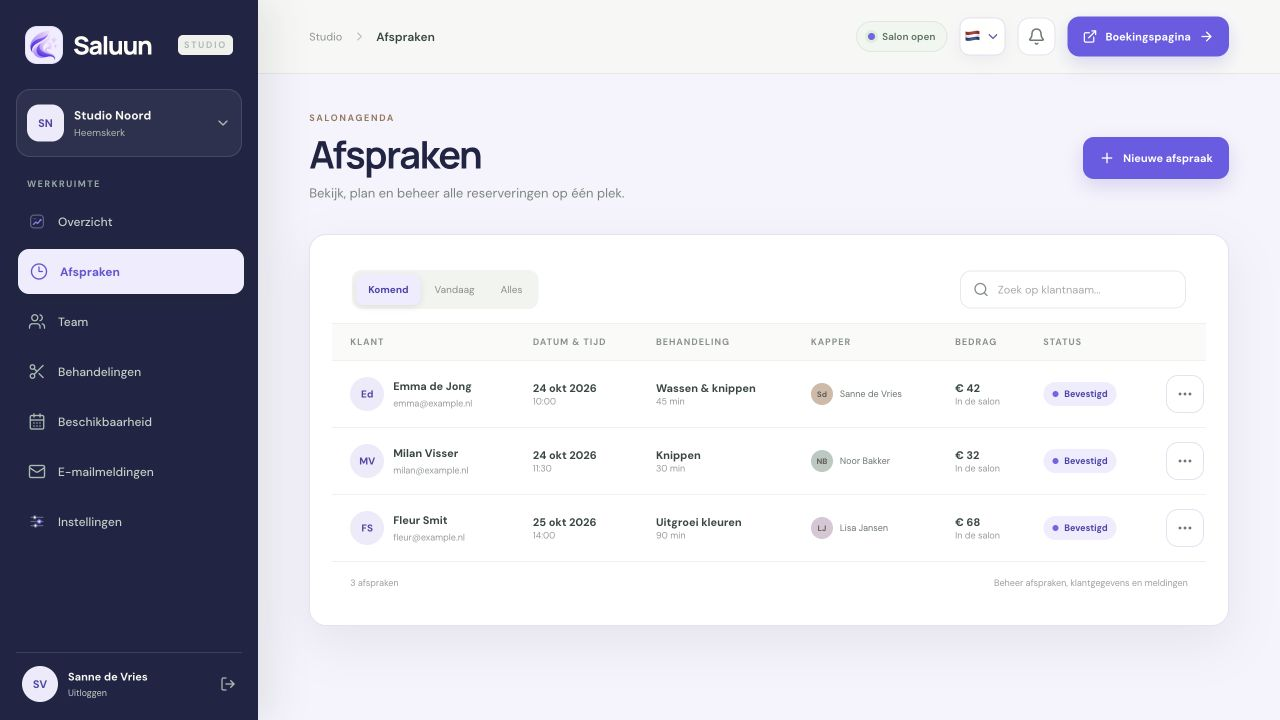
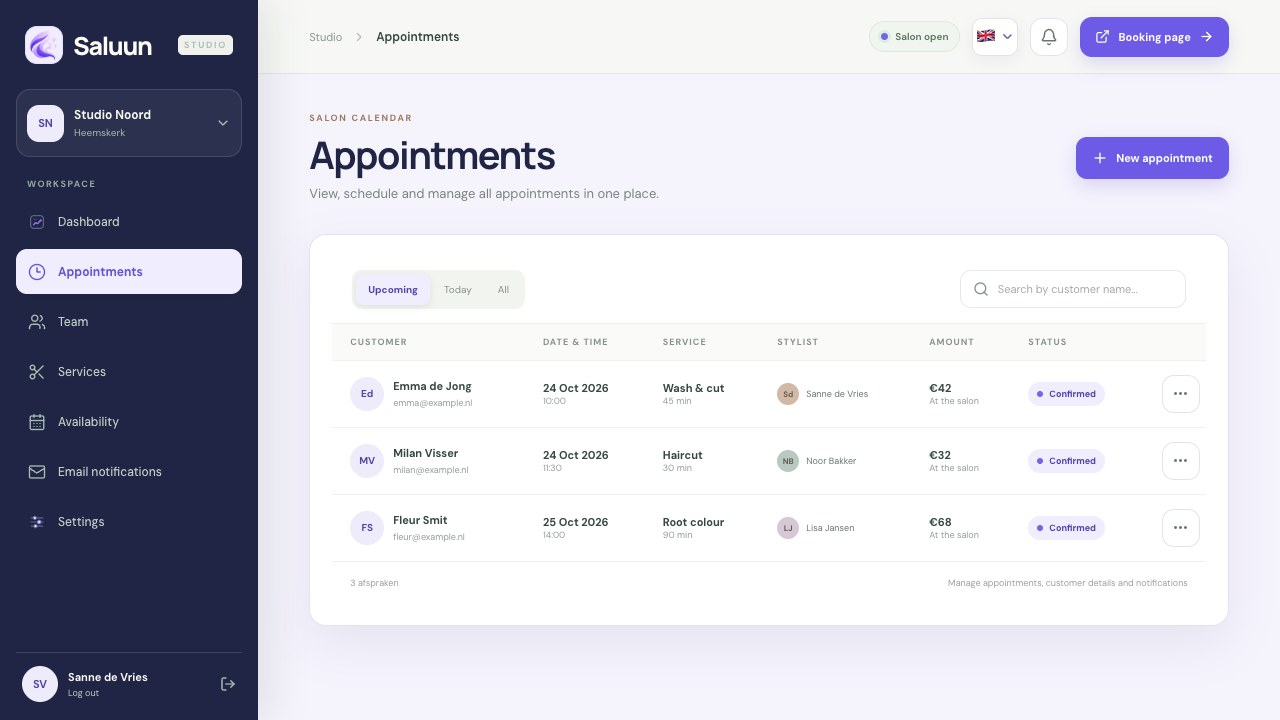
Refresh Saluun pilot showcase

diff --git a/assets/site.css b/assets/site.css
@@ -27,6 +27,7 @@ h1, h2, h3, p { margin-top: 0; }
 .nav, .footer-nav { display: flex; align-items: center; gap: clamp(20px, 3vw, 42px); }
 .nav a, .footer-nav a { color: var(--soft-ink); font-size: 14px; text-decoration: none; transition: color 180ms ease; }
 .nav a:hover, .footer-nav a:hover { color: var(--accent); }
+.nav a[aria-current="page"], .nav a[aria-current="location"] { color: var(--accent); font-weight: 650; }
 :focus-visible { outline: 3px solid var(--accent); outline-offset: 5px; }
 
 .hero { display: grid; min-height: min(780px, calc(100svh - 92px)); grid-template-columns: 1.1fr .9fr; align-items: center; gap: 7vw; padding-block: 72px 100px; }
@@ -264,19 +265,20 @@ h1, h2, h3, p { margin-top: 0; }
 .project-link--saluun:hover .saluun-preview--primary { transform: translateY(-5px); }
 .project-link--saluun:hover .saluun-preview--secondary { transform: translateY(18px); }
 .saluun-page { --accent: #6751c9; --terracotta: #c92c3a; --line: rgba(62, 53, 112, .13); background: radial-gradient(ellipse at 86% 8%, rgba(194, 184, 255, .25), transparent 34rem), var(--ground); }
-.saluun-page .product-hero { min-height: 490px; border-color: rgba(104, 81, 201, .14); background: linear-gradient(125deg, #fffefd 8%, #f1efff 100%); box-shadow: 0 18px 55px rgba(57, 48, 119, .075); }
+.saluun-page .product-hero { min-height: 430px; border-color: rgba(104, 81, 201, .14); background: linear-gradient(125deg, #fffefd 8%, #f1efff 100%); box-shadow: 0 18px 55px rgba(57, 48, 119, .075); }
 .saluun-page .product-eyebrow { color: #6652c4; }
 .saluun-page .product-button { background: #6751c9; color: #fff; }
 .saluun-page .product-button:hover { background: #4f3bad; }
 .saluun-page .product-trustline { color: #6556a3; }
 .saluun-status { display: inline-flex; align-items: center; gap: 9px; width: fit-content; margin-bottom: 20px; padding: 8px 12px; border: 1px solid rgba(104, 81, 201, .17); border-radius: 99px; background: rgba(255, 255, 255, .64); color: #5146a0; font-size: 12px; font-weight: 650; }
 .saluun-status::before { width: 7px; height: 7px; border-radius: 50%; background: #7861dd; content: ""; }
-.saluun-page .product-hero .product-title { max-width: 600px; font-size: clamp(3.2rem, 5.2vw, 4.4rem); }
+.saluun-page .product-hero .product-title { max-width: 600px; font-size: clamp(2.9rem, 4.5vw, 3.8rem); }
 .saluun-hero-visual { display: grid; min-height: 260px; grid-template-columns: 1.2fr .8fr; align-items: center; gap: 0; }
 .saluun-page .product-final-cta { border-color: rgba(104, 81, 201, .14); background: linear-gradient(120deg, #f2efff, #f9f7ff); }
-.saluun-showcase { padding-block: 88px 24px; }
+.saluun-showcase { padding-block: 68px 20px; }
 .saluun-showcase .section-intro { margin-bottom: 30px; }
-.saluun-showcase .section-intro h2 { font-size: clamp(2.6rem, 4.8vw, 4.5rem); }
+.saluun-showcase .section-intro h2 { font-size: clamp(2.25rem, 4vw, 3.5rem); }
+.saluun-screenshot-note { display: block; margin-top: 9px; color: #817c90; font-size: 12px; }
 .saluun-gallery { display: grid; grid-template-columns: repeat(2, minmax(0, 1fr)); align-items: start; gap: 18px; }
 .saluun-shot { overflow: hidden; margin: 0; border: 1px solid rgba(66, 52, 135, .13); border-radius: 18px; background: #fff; box-shadow: 0 14px 38px rgba(46, 40, 86, .075); }
 .saluun-shot:first-child { grid-column: 1 / -1; }
@@ -285,10 +287,11 @@ h1, h2, h3, p { margin-top: 0; }
 .saluun-shot figcaption span { color: #7563cf; font-size: 11px; font-weight: 750; letter-spacing: .08em; }
 .saluun-shot figcaption strong { font-size: 14px; font-weight: 620; }
 .saluun-shot figcaption small { margin-left: auto; color: var(--soft-ink); font-size: 11px; }
-.saluun-page .product-tier-section--saluun { background: linear-gradient(135deg, #f1efff, #f8f6ff); }
+.saluun-page .product-tier-section--saluun { margin-top: 62px; padding: clamp(24px, 4vw, 48px); background: linear-gradient(135deg, #f1efff, #f8f6ff); }
+.saluun-page .product-tier-heading h2 { font-size: clamp(2.2rem, 4vw, 3.5rem); }
 .saluun-page .product-tier--saluun { border-color: rgba(104, 81, 201, .18); box-shadow: 0 10px 32px rgba(57, 48, 119, .07); }
 .saluun-page .product-benefits { grid-template-columns: repeat(4, minmax(0, 1fr)); gap: 12px; }
-.saluun-price { margin: 0 0 5px; color: #c92c3a; font-size: clamp(2.4rem, 4.5vw, 4rem); font-weight: 650; letter-spacing: -.06em; line-height: 1; }
+.saluun-price { margin: 0 0 5px; color: #c92c3a; font-size: clamp(2.2rem, 3.6vw, 3.2rem); font-weight: 650; letter-spacing: -.06em; line-height: 1; }
 .saluun-price small { display: block; margin-top: 8px; color: #c92c3a; font-size: .34em; font-weight: 600; letter-spacing: -.02em; }
 .saluun-price-note { margin: 0 0 22px; color: #a32834; font-size: 12px; font-weight: 650; }
 .saluun-page .product-final-cta .product-button { flex: 0 0 auto; }
@@ -333,10 +336,10 @@ h1, h2, h3, p { margin-top: 0; }
 
 @media (max-width: 620px) {
   .wrap { width: calc(100% - 36px); }
-  .header-inner { min-height: 78px; }
+  .header-inner { min-height: 78px; flex-wrap: wrap; justify-content: center; gap: 7px; padding-block: 10px; }
   .brand { gap: 8px; font-size: 13px; }
   .brand img { width: 42px; height: 42px; }
-  .nav { gap: 15px; }
+  .nav { width: 100%; justify-content: center; flex-wrap: wrap; gap: 8px 17px; }
   .nav a { font-size: 13px; }
   .hero { grid-template-columns: minmax(0, 1fr); gap: 44px; padding-block: 68px 65px; }
   .hero-copy { padding-bottom: 0; }

diff --git a/saluun/index.html b/saluun/index.html
@@ -13,7 +13,7 @@
   <link rel="icon" href="../assets/branding/favicon.svg" type="image/svg+xml" sizes="any">
   <link rel="icon" href="../assets/branding/favicon-32.png" type="image/png" sizes="32x32">
   <link rel="apple-touch-icon" href="../assets/branding/apple-touch-icon.png">
-  <link rel="stylesheet" href="../assets/site.css?v=20261023-saluun-project">
+  <link rel="stylesheet" href="../assets/site.css?v=saluun-pilots-english-shots-20261023">
   <link rel="stylesheet" href="../assets/consent.css?v=20261023-analytics-consent">
   <title>Saluun · Online booking for salons | Lunava Software</title>
   <script>document.documentElement.classList.add('js');</script>
@@ -27,6 +27,7 @@
         <span>Lunava Software</span>
       </a>
       <nav class="nav" aria-label="Main navigation">
+        <a href="#pricing" aria-current="location">Saluun pilot</a>
         <a href="../securesets/">SecureSets</a>
         <a href="../sunrise-alarm/">Sunrise Alarm</a>
         <a href="../contact/">Contact</a>
@@ -50,10 +51,10 @@
       </div>
       <div class="product-visual saluun-hero-visual" aria-label="Saluun salon management and booking screens">
         <figure class="saluun-preview saluun-preview--primary" data-reveal>
-          <img src="../assets/screens/saluun/salon-dashboard.jpg" alt="Saluun salon dashboard with team, opening hours and upcoming appointments" width="1280" height="720" fetchpriority="high">
+          <img src="../assets/screens/saluun/salon-dashboard.jpg" alt="Saluun salon dashboard in English, showing sample team, opening hours and appointments" width="1280" height="720" fetchpriority="high">
         </figure>
         <figure class="saluun-preview saluun-preview--secondary" data-reveal style="--delay: 100ms">
-          <img src="../assets/screens/saluun/booking-flow.jpg" alt="A salon's online booking page in Saluun" width="1280" height="720" loading="lazy" decoding="async">
+          <img src="../assets/screens/saluun/booking-flow.jpg" alt="Saluun's English booking page with sample salon services" width="1280" height="720" loading="lazy" decoding="async">
         </figure>
       </div>
     </section>
@@ -64,19 +65,19 @@
           <p class="product-eyebrow">A CLOSER LOOK</p>
           <h2 id="saluun-screens-title">Everything in its place.</h2>
         </div>
-        <p>See the day at a glance, manage every appointment and give clients a smooth path to book.</p>
+        <p>See the day at a glance, manage every appointment and give clients a smooth path to book.<span class="saluun-screenshot-note">Screenshots show the current interface with sample salon data.</span></p>
       </div>
       <div class="saluun-gallery">
         <figure class="saluun-shot" data-reveal>
-          <img src="../assets/screens/saluun/salon-dashboard.jpg" alt="Salon overview with the team, opening hours and upcoming appointments" width="1280" height="720" loading="lazy" decoding="async">
+          <img src="../assets/screens/saluun/salon-dashboard.jpg" alt="English salon overview with sample team members, opening hours and appointments" width="1280" height="720" loading="lazy" decoding="async">
           <figcaption><span>01</span><strong>Your day at a glance</strong><small>Salon dashboard</small></figcaption>
         </figure>
         <figure class="saluun-shot" data-reveal>
-          <img src="../assets/screens/saluun/appointment-list.jpg" alt="Appointment list with services, team members, times and statuses" width="1280" height="720" loading="lazy" decoding="async">
+          <img src="../assets/screens/saluun/appointment-list.jpg" alt="English appointment list with sample services, team members, times and statuses" width="1280" height="720" loading="lazy" decoding="async">
           <figcaption><span>02</span><strong>Appointments, organized</strong><small>Manage your schedule</small></figcaption>
         </figure>
         <figure class="saluun-shot" data-reveal>
-          <img src="../assets/screens/saluun/booking-flow.jpg" alt="Online booking page where a client chooses a salon service" width="1280" height="720" loading="lazy" decoding="async">
+          <img src="../assets/screens/saluun/booking-flow.jpg" alt="English online booking page where a client chooses a salon service" width="1280" height="720" loading="lazy" decoding="async">
           <figcaption><span>03</span><strong>Booking made easy</strong><small>A clear client booking journey</small></figcaption>
         </figure>
       </div>

diff --git a/index.html b/index.html
@@ -39,7 +39,7 @@
   <link rel="icon" href="assets/branding/favicon.svg" type="image/svg+xml" sizes="any">
   <link rel="icon" href="assets/branding/favicon-32.png" type="image/png" sizes="32x32">
   <link rel="apple-touch-icon" href="assets/branding/apple-touch-icon.png">
-  <link rel="stylesheet" href="assets/site.css?v=20261023-saluun-project">
+  <link rel="stylesheet" href="assets/site.css?v=saluun-pilots-english-shots-20261023">
   <link rel="stylesheet" href="assets/consent.css?v=20261023-analytics-consent">
   <title>Lunava Software | Android Apps &amp; Digital Projects</title>
   <script>document.documentElement.classList.add('js');</script>
@@ -53,6 +53,7 @@
         <span>Lunava Software</span>
       </a>
       <nav class="nav" aria-label="Main navigation">
+        <a href="saluun/">Saluun</a>
         <a href="securesets/">SecureSets</a>
         <a href="sunrise-alarm/">Sunrise Alarm</a>
         <a href="contact/">Contact</a>
@@ -129,10 +130,10 @@
         </div>
         <div class="project-images project-images--desktop" aria-label="Saluun salon booking and management screenshots">
           <figure class="saluun-preview saluun-preview--primary" data-reveal>
-            <img src="assets/screens/saluun/salon-dashboard.jpg" alt="Saluun salon dashboard showing the team, opening hours and upcoming appointments" width="1280" height="720" loading="lazy" decoding="async">
+            <img src="assets/screens/saluun/salon-dashboard.jpg" alt="Saluun salon dashboard in English, showing sample team, opening hours and appointments" width="1280" height="720" loading="lazy" decoding="async">
           </figure>
           <figure class="saluun-preview saluun-preview--secondary" data-reveal style="--delay: 100ms">
-            <img src="assets/screens/saluun/booking-flow.jpg" alt="Saluun online booking page for a salon" width="1280" height="720" loading="lazy" decoding="async">
+            <img src="assets/screens/saluun/booking-flow.jpg" alt="Saluun's English online booking page with sample salon services" width="1280" height="720" loading="lazy" decoding="async">
           </figure>
         </div>
       </article>

diff --git a/sunrise-alarm/index.html b/sunrise-alarm/index.html
@@ -13,7 +13,7 @@
   <link rel="icon" href="../assets/branding/favicon.svg" type="image/svg+xml" sizes="any">
   <link rel="icon" href="../assets/branding/favicon-32.png" type="image/png" sizes="32x32">
   <link rel="apple-touch-icon" href="../assets/branding/apple-touch-icon.png">
-  <link rel="stylesheet" href="../assets/site.css?v=20261023-phone-frame-mobile">
+  <link rel="stylesheet" href="../assets/site.css?v=saluun-pilots-english-shots-20261023">
   <link rel="stylesheet" href="../assets/consent.css?v=20261023-analytics-consent">
   <title>Sunrise Alarm: Gentle Wake-Up App | Lunava Software</title>
   <script>document.documentElement.classList.add('js');</script>
@@ -27,6 +27,7 @@
         <span>Lunava Software</span>
       </a>
       <nav class="nav" aria-label="Main navigation">
+        <a href="../saluun/">Saluun</a>
         <a href="../securesets/">SecureSets</a>
         <a href="../sunrise-alarm/">Sunrise Alarm</a>
         <a href="../contact/">Contact</a>

diff --git a/privacy/index.html b/privacy/index.html
@@ -13,7 +13,7 @@
   <link rel="icon" href="../assets/branding/favicon.svg" type="image/svg+xml" sizes="any">
   <link rel="icon" href="../assets/branding/favicon-32.png" type="image/png" sizes="32x32">
   <link rel="apple-touch-icon" href="../assets/branding/apple-touch-icon.png">
-  <link rel="stylesheet" href="../assets/site.css?v=20261023-analytics-consent">
+  <link rel="stylesheet" href="../assets/site.css?v=saluun-pilots-english-shots-20261023">
   <link rel="stylesheet" href="../assets/consent.css?v=20261023-analytics-consent">
   <title>Privacy &amp; Analytics | Lunava Software</title>
   <script>document.documentElement.classList.add('js');</script>
@@ -27,6 +27,7 @@
         <span>Lunava Software</span>
       </a>
       <nav class="nav" aria-label="Main navigation">
+        <a href="../saluun/">Saluun</a>
         <a href="../securesets/">SecureSets</a>
         <a href="../sunrise-alarm/">Sunrise Alarm</a>
         <a href="../contact/">Contact</a>

diff --git a/developer-nightmare/index.html b/developer-nightmare/index.html
@@ -13,7 +13,7 @@
   <link rel="icon" href="../assets/branding/favicon.svg" type="image/svg+xml" sizes="any">
   <link rel="icon" href="../assets/branding/favicon-32.png" type="image/png" sizes="32x32">
   <link rel="apple-touch-icon" href="../assets/branding/apple-touch-icon.png">
-  <link rel="stylesheet" href="../assets/site.css?v=20261022-views-icon">
+  <link rel="stylesheet" href="../assets/site.css?v=saluun-pilots-english-shots-20261023">
   <link rel="stylesheet" href="../assets/consent.css?v=20261023-analytics-consent">
   <title>Developer Nightmare | Lunava Software</title>
   <script>document.documentElement.classList.add('js');</script>
@@ -27,6 +27,7 @@
         <span>Lunava Software</span>
       </a>
       <nav class="nav" aria-label="Main navigation">
+        <a href="../saluun/">Saluun</a>
         <a href="../securesets/">SecureSets</a>
         <a href="../sunrise-alarm/">Sunrise Alarm</a>
         <a href="../contact/">Contact</a>

diff --git a/ai-youtube-channel/index.html b/ai-youtube-channel/index.html
@@ -13,7 +13,7 @@
   <link rel="icon" href="../assets/branding/favicon.svg" type="image/svg+xml" sizes="any">
   <link rel="icon" href="../assets/branding/favicon-32.png" type="image/png" sizes="32x32">
   <link rel="apple-touch-icon" href="../assets/branding/apple-touch-icon.png">
-  <link rel="stylesheet" href="../assets/site.css?v=20261022-views-icon">
+  <link rel="stylesheet" href="../assets/site.css?v=saluun-pilots-english-shots-20261023">
   <link rel="stylesheet" href="../assets/consent.css?v=20261023-analytics-consent">
   <title>AI YouTube Channel | Lunava Software</title>
   <script>document.documentElement.classList.add('js');</script>
@@ -27,6 +27,7 @@
         <span>Lunava Software</span>
       </a>
       <nav class="nav" aria-label="Main navigation">
+        <a href="../saluun/">Saluun</a>
         <a href="../securesets/">SecureSets</a>
         <a href="../sunrise-alarm/">Sunrise Alarm</a>
         <a href="../contact/">Contact</a>

diff --git a/contact/index.html b/contact/index.html
@@ -13,7 +13,7 @@
   <link rel="icon" href="../assets/branding/favicon.svg" type="image/svg+xml" sizes="any">
   <link rel="icon" href="../assets/branding/favicon-32.png" type="image/png" sizes="32x32">
   <link rel="apple-touch-icon" href="../assets/branding/apple-touch-icon.png">
-  <link rel="stylesheet" href="../assets/site.css">
+  <link rel="stylesheet" href="../assets/site.css?v=saluun-pilots-english-shots-20261023">
   <link rel="stylesheet" href="../assets/consent.css?v=20261023-analytics-consent">
   <title>Contact | Lunava Software</title>
   <script>document.documentElement.classList.add('js');</script>
@@ -27,6 +27,7 @@
         <span>Lunava Software</span>
       </a>
       <nav class="nav" aria-label="Main navigation">
+        <a href="../saluun/">Saluun</a>
         <a href="../securesets/">SecureSets</a>
         <a href="../sunrise-alarm/">Sunrise Alarm</a>
         <a href="../contact/" aria-current="page">Contact</a>

diff --git a/securesets/index.html b/securesets/index.html
@@ -225,6 +225,7 @@
         <span>Lunava Software</span>
       </a>
       <nav class="nav" aria-label="Main navigation">
+        <a href="../saluun/">Saluun</a>
         <a href="../securesets/" aria-current="page">SecureSets</a>
         <a href="../sunrise-alarm/">Sunrise Alarm</a>
         <a href="../contact/">Contact</a>
